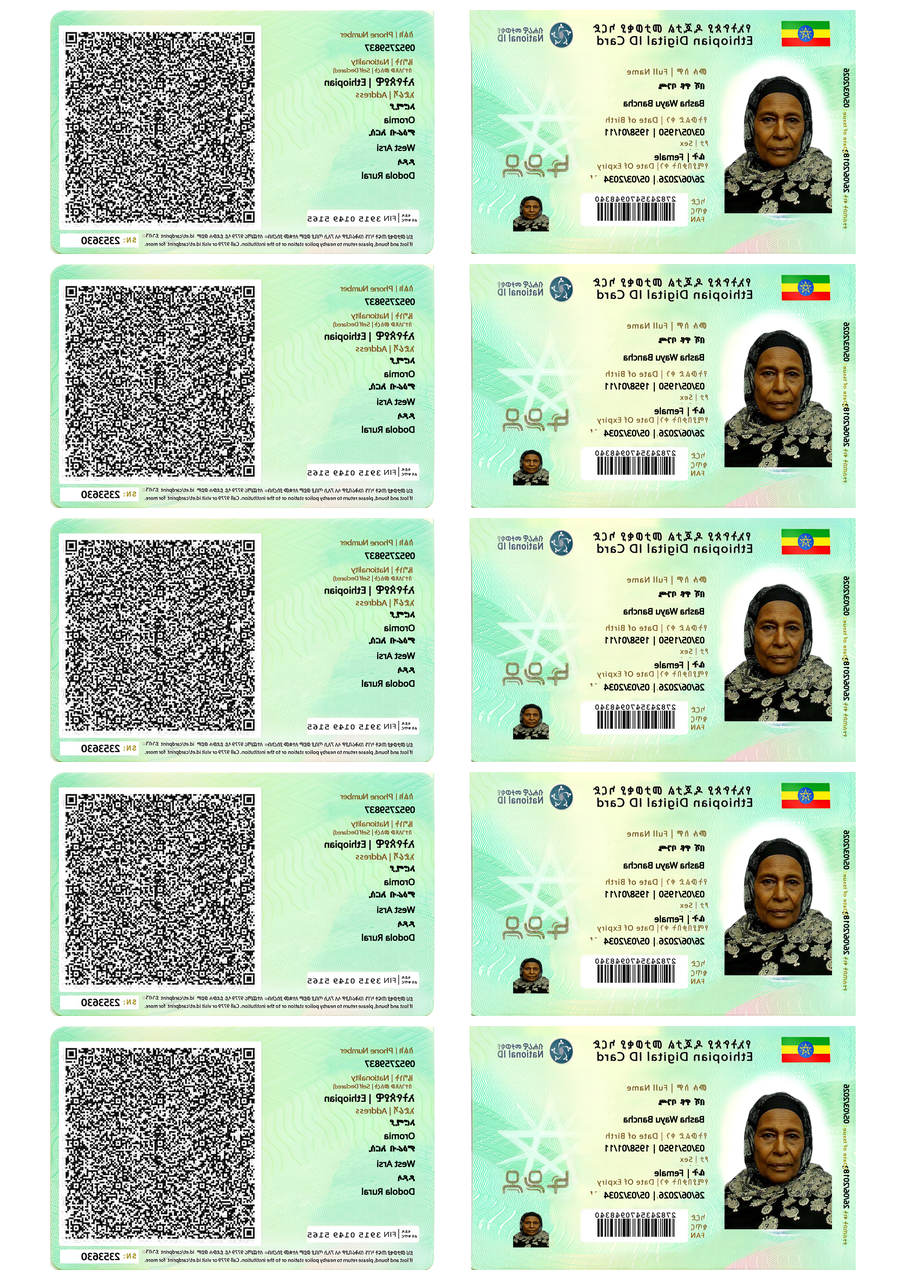
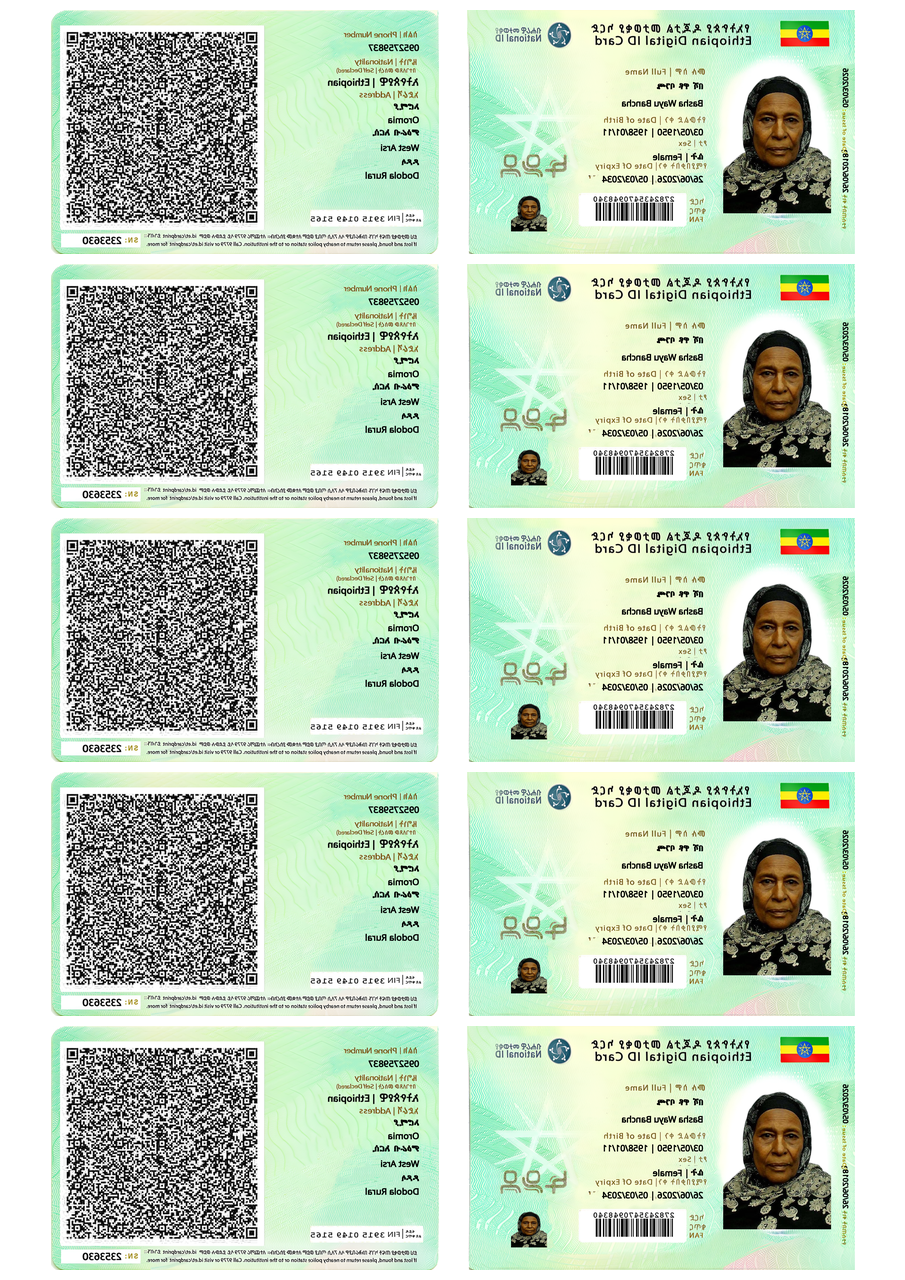
fixing the boldness isssue

Changed region(s): [[0.0309, 0.0, 0.9591, 1.0], [0.526, 0.0, 0.9591, 0.1875]]

diff --git a/core/image/image_generator.py b/core/image/image_generator.py
@@ -73,8 +73,8 @@ def gregorian_to_ethiopian(g_y, g_m, g_d):
 def draw_bold_text(draw, position, text, font, fill=(0, 0, 0), boldness=1):
     """Draw text thicker by offset overlaying."""
     x, y = position
-    for dx in range(boldness + 1):
-        for dy in range(boldness + 1):
+    for dx in range(int(boldness) + 1):
+        for dy in range(int(boldness) + 1):
             draw.text((x + dx, y + dy), text, font=font, fill=fill)
 
 
@@ -91,8 +91,8 @@ def draw_vertical_text(base_img, position, text, font_path, font_size=22, fill=(
     text_draw = ImageDraw.Draw(text_img)
 
     # Draw bold text
-    for dx in range(boldness * scale + 1):
-        for dy in range(boldness * scale + 1):
+    for dx in range(int(boldness * scale) + 1):
+        for dy in range(int(boldness * scale) + 1):
             text_draw.text((dx, dy), text, font=font, fill=fill)
 
     # Rotate upward
